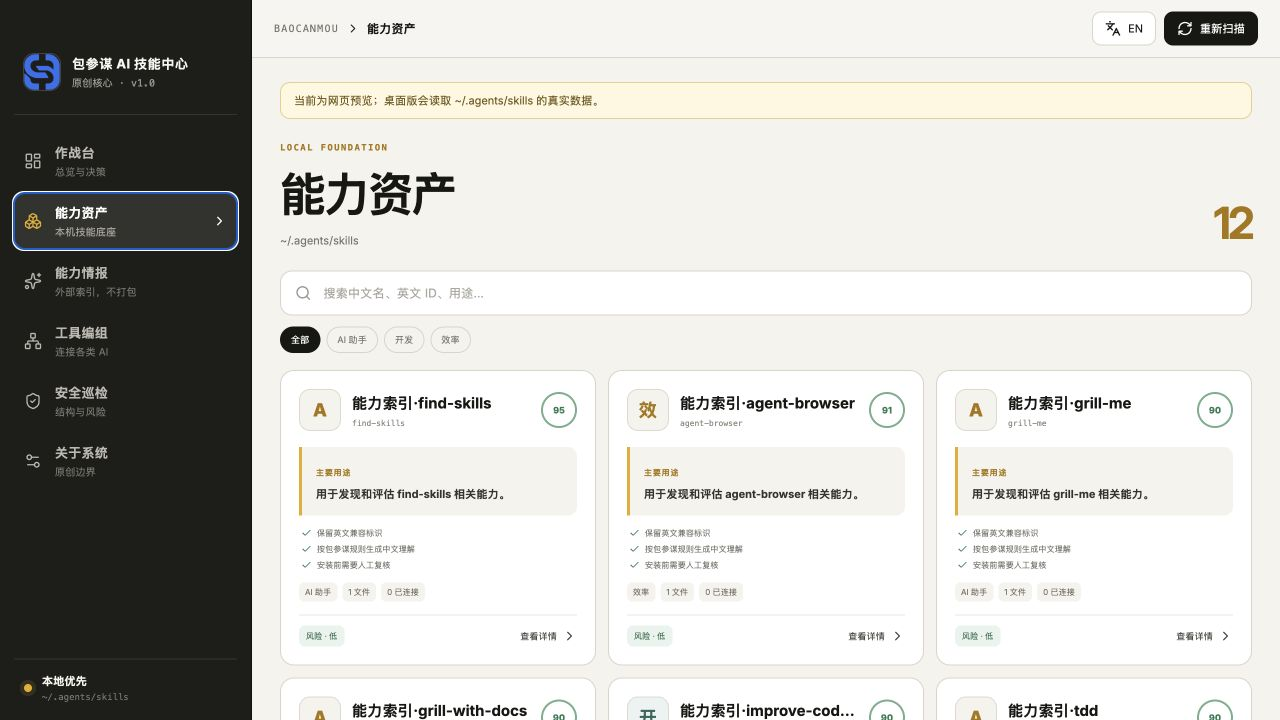
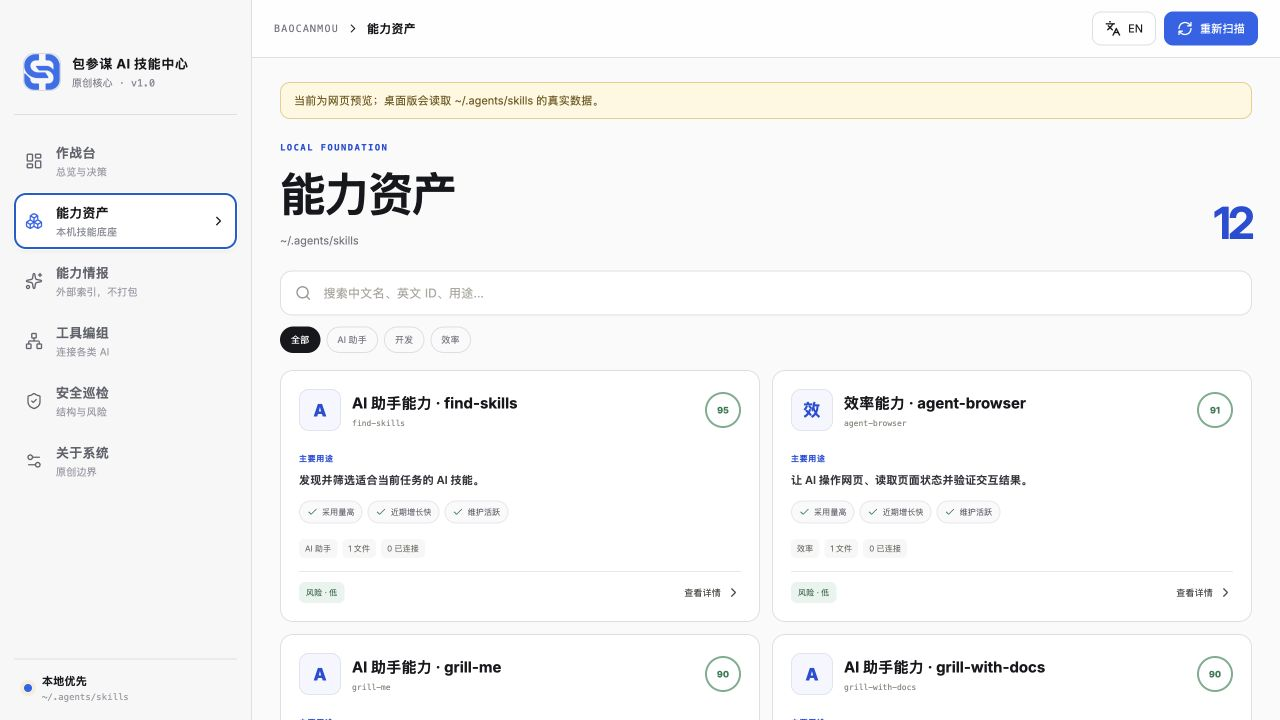
style: restore minimal UI with purpose-first cards

diff --git a/src/index.css b/src/index.css
@@ -1,22 +1,22 @@
 :root {
   font-family: Inter, "SF Pro Display", "PingFang SC", "Microsoft YaHei", sans-serif;
-  color: #171714;
-  background: #e8e5de;
+  color: #17181b;
+  background: #f4f5f7;
   font-synthesis: none;
   text-rendering: optimizeLegibility;
-  --paper: #f5f3ed;
-  --paper-2: #ece9e1;
-  --ink: #171714;
-  --muted: #78766f;
-  --line: #d9d5cb;
-  --accent: #e5ad12;
-  --accent-deep: #a87600;
+  --paper: #f7f7f8;
+  --paper-2: #f0f1f3;
+  --ink: #17181b;
+  --muted: #74777f;
+  --line: #dedfe3;
+  --accent: #2563eb;
+  --accent-deep: #1d4ed8;
   --good: #287a52;
   --warn: #ad6c12;
   --danger: #a43e36;
-  --sidebar: #1d1d1a;
-  --sidebar-muted: #9b9a92;
-  --radius: 16px;
+  --sidebar: #f7f7f8;
+  --sidebar-muted: #858891;
+  --radius: 14px;
   color-scheme: light;
 }
 
@@ -40,14 +40,14 @@ button { color: inherit; }
   display: flex;
   flex-direction: column;
   padding: 46px 14px 18px;
-  color: #f8f6ef;
+  color: var(--ink);
   background: var(--sidebar);
-  border-right: 1px solid #0f0f0e;
+  border-right: 1px solid var(--line);
 }
 
 .window-drag { position: absolute; inset: 0 0 auto; height: 38px; }
-.brand-lockup { display: flex; align-items: center; gap: 12px; padding: 8px 10px 24px; border-bottom: 1px solid #35352f; }
-.brand-lockup img { width: 36px; height: 36px; border-radius: 10px; box-shadow: 0 0 0 1px #44443d; }
+.brand-lockup { display: flex; align-items: center; gap: 12px; padding: 8px 10px 24px; border-bottom: 1px solid var(--line); }
+.brand-lockup img { width: 36px; height: 36px; border-radius: 10px; box-shadow: 0 0 0 1px #d7d9df; }
 .brand-lockup div { min-width: 0; display: grid; gap: 3px; }
 .brand-lockup strong { font-size: 13px; letter-spacing: .03em; white-space: nowrap; }
 .brand-lockup span { color: var(--sidebar-muted); font-family: ui-monospace, SFMono-Regular, Menlo, monospace; font-size: 10px; }
@@ -55,36 +55,36 @@ button { color: inherit; }
 .primary-nav { display: grid; gap: 4px; padding: 18px 0; }
 .primary-nav button {
   width: 100%; min-height: 56px; display: grid; grid-template-columns: 22px minmax(0, 1fr) 15px; align-items: center; gap: 9px;
-  padding: 8px 10px; border: 0; border-radius: 11px; color: #bbb9b1; background: transparent; text-align: left; cursor: pointer;
+  padding: 8px 10px; border: 1px solid transparent; border-radius: 11px; color: #60636b; background: transparent; text-align: left; cursor: pointer;
   transition: background .18s ease, color .18s ease;
 }
-.primary-nav button:hover { color: #fff; background: #292925; }
-.primary-nav button.active { color: #fff; background: #32322d; }
+.primary-nav button:hover { color: var(--ink); background: #fff; }
+.primary-nav button.active { color: var(--ink); border-color: var(--line); background: #fff; box-shadow: 0 2px 5px #1f29370d; }
 .primary-nav button.active > svg:first-child { color: var(--accent); }
 .primary-nav button > span { display: grid; min-width: 0; gap: 3px; }
 .primary-nav strong { font-size: 13px; font-weight: 650; }
-.primary-nav small { overflow: hidden; color: #77766f; font-size: 10px; text-overflow: ellipsis; white-space: nowrap; }
-.primary-nav button.active small { color: #a8a69d; }
+.primary-nav small { overflow: hidden; color: #9a9ca3; font-size: 10px; text-overflow: ellipsis; white-space: nowrap; }
+.primary-nav button.active small { color: #858891; }
 .primary-nav button > svg:last-child { opacity: 0; transform: translateX(-3px); transition: .18s ease; }
 .primary-nav button.active > svg:last-child { opacity: 1; transform: none; }
 
-.sidebar-foot { margin-top: auto; display: flex; align-items: center; gap: 10px; padding: 14px 10px 0; border-top: 1px solid #35352f; }
+.sidebar-foot { margin-top: auto; display: flex; align-items: center; gap: 10px; padding: 14px 10px 0; border-top: 1px solid var(--line); }
 .sidebar-foot .status-dot { width: 8px; height: 8px; border-radius: 99px; background: var(--accent); box-shadow: 0 0 0 4px #e5ad1220; }
 .sidebar-foot div { min-width: 0; display: grid; gap: 3px; }
 .sidebar-foot strong { font-size: 11px; }
-.sidebar-foot small { overflow: hidden; color: #77766f; font-family: ui-monospace, SFMono-Regular, Menlo, monospace; font-size: 9px; text-overflow: ellipsis; white-space: nowrap; }
+.sidebar-foot small { overflow: hidden; color: #9a9ca3; font-family: ui-monospace, SFMono-Regular, Menlo, monospace; font-size: 9px; text-overflow: ellipsis; white-space: nowrap; }
 
 .main-panel { min-width: 0; min-height: 0; display: grid; grid-template-rows: 58px minmax(0, 1fr); background: var(--paper); }
-.topbar { display: flex; align-items: center; justify-content: space-between; gap: 20px; padding: 12px 22px; border-bottom: 1px solid var(--line); background: #f7f5f0dd; backdrop-filter: blur(14px); }
+.topbar { display: flex; align-items: center; justify-content: space-between; gap: 20px; padding: 12px 22px; border-bottom: 1px solid var(--line); background: #ffffffeb; backdrop-filter: blur(14px); }
 .crumb { display: flex; align-items: center; gap: 7px; min-width: 0; }
 .crumb span { color: var(--muted); font-family: ui-monospace, SFMono-Regular, Menlo, monospace; font-size: 10px; letter-spacing: .12em; }
 .crumb strong { font-size: 12px; }
 .top-actions { display: flex; gap: 8px; }
 .top-actions button { display: inline-flex; align-items: center; gap: 7px; height: 34px; padding: 0 12px; border: 1px solid var(--line); border-radius: 9px; background: #fff; font-size: 11px; cursor: pointer; }
 .top-actions button:hover { border-color: #bdb8ac; }
-.top-actions .scan-button { color: #fff; border-color: var(--ink); background: var(--ink); }
+.top-actions .scan-button { color: #fff; border-color: var(--accent); background: var(--accent); }
 .top-actions button:disabled { cursor: wait; opacity: .6; }
-.content-scroll { overflow: auto; min-height: 0; padding: 24px 28px 52px; }
+.content-scroll { overflow: auto; min-height: 0; padding: 24px 28px 52px; background: #fafafa; }
 .page { width: min(1180px, 100%); margin: 0 auto; }
 
 .preview-banner, .error-banner { width: min(1180px, 100%); margin: 0 auto 16px; padding: 10px 13px; border: 1px solid #e5cf8d; border-radius: 10px; color: #725916; background: #fff8df; font-size: 11px; }
@@ -94,20 +94,20 @@ button { color: inherit; }
 @keyframes spin { to { transform: rotate(360deg); } }
 
 .eyebrow { color: var(--accent-deep); font-family: ui-monospace, SFMono-Regular, Menlo, monospace; font-size: 9px; font-weight: 750; letter-spacing: .15em; }
-.hero-panel { min-height: 262px; display: grid; grid-template-columns: minmax(0, 1.4fr) minmax(260px, .6fr); overflow: hidden; border: 1px solid #22221f; border-radius: 20px; color: #f7f5ef; background: #1d1d1a; }
-.hero-copy { align-self: center; padding: 38px 42px; }
-.hero-copy .eyebrow { color: #d5a925; }
-.hero-copy h1 { max-width: 620px; margin: 12px 0 13px; font-size: clamp(32px, 4vw, 56px); line-height: .98; letter-spacing: -.055em; }
-.hero-copy p { max-width: 560px; margin: 0; color: #aaa89f; font-size: 13px; line-height: 1.7; }
-.hero-copy button { display: inline-flex; align-items: center; gap: 8px; margin-top: 24px; padding: 10px 14px; border: 0; border-radius: 10px; color: #161612; background: var(--accent); font-size: 11px; font-weight: 700; cursor: pointer; }
-.hero-mark { position: relative; min-height: 262px; display: grid; place-content: center; justify-items: center; overflow: hidden; border-left: 1px solid #393934; background: #252521; }
-.hero-mark::before, .hero-mark::after { content: ""; position: absolute; inset: 18px; border: 1px solid #3c3c36; border-radius: 16px; }
-.hero-mark::after { inset: 50px; border-color: #44443d; border-radius: 50%; }
-.hero-mark span { position: relative; z-index: 2; color: var(--accent); font-size: 58px; font-weight: 760; letter-spacing: -.06em; }
-.hero-mark small { position: relative; z-index: 2; color: #89877f; font-size: 10px; letter-spacing: .08em; text-transform: uppercase; }
+.hero-panel { min-height: 208px; display: grid; grid-template-columns: minmax(0, 1.5fr) minmax(230px, .5fr); overflow: hidden; border: 1px solid var(--line); border-radius: 14px; color: var(--ink); background: #fff; }
+.hero-copy { align-self: center; padding: 30px 34px; }
+.hero-copy .eyebrow { color: var(--accent-deep); }
+.hero-copy h1 { max-width: 620px; margin: 10px 0 11px; font-size: clamp(28px, 3.5vw, 44px); line-height: 1.02; letter-spacing: -.05em; }
+.hero-copy p { max-width: 560px; margin: 0; color: var(--muted); font-size: 12px; line-height: 1.7; }
+.hero-copy button { display: inline-flex; align-items: center; gap: 8px; margin-top: 20px; padding: 9px 13px; border: 0; border-radius: 9px; color: #fff; background: var(--accent); font-size: 10px; font-weight: 700; cursor: pointer; }
+.hero-mark { position: relative; min-height: 208px; display: grid; place-content: center; justify-items: center; overflow: hidden; border-left: 1px solid var(--line); background: #fafbff; }
+.hero-mark::before, .hero-mark::after { content: ""; position: absolute; inset: 18px; border: 1px solid #e5e7eb; border-radius: 12px; }
+.hero-mark::after { inset: 47px; border-color: #dce4f6; border-radius: 50%; }
+.hero-mark span { position: relative; z-index: 2; color: var(--accent); font-size: 50px; font-weight: 760; letter-spacing: -.06em; }
+.hero-mark small { position: relative; z-index: 2; color: #8a8d95; font-size: 10px; letter-spacing: .08em; text-transform: uppercase; }
 .strategy-path { position: absolute; inset: 0; }
-.strategy-path::before { content: ""; position: absolute; left: 14%; top: 62%; width: 76%; height: 1px; background: #6b5c2c; transform: rotate(-23deg); }
-.strategy-path i { position: absolute; width: 7px; height: 7px; border-radius: 50%; background: var(--accent); box-shadow: 0 0 0 5px #e5ad121b; }
+.strategy-path::before { content: ""; position: absolute; left: 14%; top: 62%; width: 76%; height: 1px; background: #b8c8ed; transform: rotate(-23deg); }
+.strategy-path i { position: absolute; width: 7px; height: 7px; border-radius: 50%; background: var(--accent); box-shadow: 0 0 0 5px #2563eb12; }
 .strategy-path i:nth-child(1) { left: 15%; top: 72%; }.strategy-path i:nth-child(2) { left: 32%; top: 57%; }.strategy-path i:nth-child(3) { left: 51%; top: 61%; }.strategy-path i:nth-child(4) { left: 69%; top: 39%; }.strategy-path i:nth-child(5) { left: 84%; top: 29%; }
 
 .metric-row { display: grid; grid-template-columns: repeat(6, minmax(0, 1fr)); gap: 1px; margin: 15px 0; overflow: hidden; border: 1px solid var(--line); border-radius: 15px; background: var(--line); }
@@ -160,18 +160,18 @@ button { color: inherit; }
 .category-tabs::-webkit-scrollbar { display: none; }
 .category-tabs button { flex: 0 0 auto; padding: 6px 10px; border: 1px solid var(--line); border-radius: 999px; color: var(--muted); background: transparent; font-size: 9px; cursor: pointer; }
 .category-tabs button.active { color: #fff; border-color: var(--ink); background: var(--ink); }
-.asset-grid { display: grid; grid-template-columns: repeat(3, minmax(0, 1fr)); gap: 12px; }
-.skill-card { min-width: 0; display: flex; flex-direction: column; min-height: 286px; padding: 18px; border: 1px solid var(--line); border-radius: 14px; background: #fff; cursor: pointer; transition: transform .18s ease, border-color .18s ease, box-shadow .18s ease; }
-.skill-card:hover { transform: translateY(-2px); border-color: #bdb8ac; box-shadow: 0 12px 28px #27251e0d; }
+.asset-grid { display: grid; grid-template-columns: repeat(2, minmax(0, 1fr)); gap: 12px; }
+.skill-card { min-width: 0; display: flex; flex-direction: column; min-height: 252px; padding: 18px; border: 1px solid var(--line); border-radius: 13px; background: #fff; cursor: pointer; transition: border-color .16s ease, box-shadow .16s ease; }
+.skill-card:hover { border-color: #c6cbd5; box-shadow: 0 5px 14px #1f29370a; }
 .skill-card-heading { display: grid; grid-template-columns: 42px minmax(0, 1fr) auto; align-items: center; gap: 11px; }
-.skill-card-icon { width: 42px; height: 42px; display: grid; place-content: center; border: 1px solid #dedacf; border-radius: 11px; color: var(--accent-deep); background: var(--paper); font-size: 18px; font-weight: 800; }.skill-card-icon.category-design { color: #8a572c; background: #f6eee6; }.skill-card-icon.category-development { color: #2f665a; background: #eaf3f0; }.skill-card-icon.category-content { color: #785f22; background: #f7f1df; }.skill-card-icon.category-video { color: #6e4c78; background: #f3eaf5; }.skill-card-icon.category-data { color: #415f78; background: #eaf0f5; }.skill-card-icon.category-security { color: #8a4942; background: #f7eae8; }.skill-card-icon.category-automation { color: #5a6e38; background: #eef3e6; }
+.skill-card-icon { width: 42px; height: 42px; display: grid; place-content: center; border: 1px solid #dfe4ee; border-radius: 10px; color: var(--accent-deep); background: #f5f7ff; font-size: 17px; font-weight: 750; }
 .score-ring { width: 36px; height: 36px; display: grid; place-content: center; border: 2px solid; border-radius: 50%; font-size: 9px; font-weight: 800; }
 .score-ring.strong { color: var(--good); border-color: #74ad8e; }.score-ring.steady { color: var(--warn); border-color: #d2a65d; }.score-ring.attention { color: var(--danger); border-color: #cf827b; }
 .risk-pill { padding: 5px 7px; border-radius: 6px; font-size: 8px; }.risk-pill.low { color: #276946; background: #e8f3ec; }.risk-pill.medium { color: #865f10; background: #fff2d4; }.risk-pill.high { color: #8e3530; background: #fbe5e3; }
 .skill-card h3 { overflow: hidden; margin: 0 0 5px; font-size: 15px; text-overflow: ellipsis; white-space: nowrap; }
 .skill-card code { display: block; overflow: hidden; color: #8c8981; font-size: 8px; text-overflow: ellipsis; white-space: nowrap; }
-.skill-purpose { margin-top: 16px; padding: 13px 14px; border-left: 3px solid var(--accent); border-radius: 0 9px 9px 0; background: var(--paper); }.skill-purpose > span { color: var(--accent-deep); font-size: 8px; font-weight: 800; letter-spacing: .08em; }.skill-purpose p { display: -webkit-box; overflow: hidden; margin: 6px 0 0; color: #34332e; font-size: 11px; font-weight: 650; line-height: 1.55; -webkit-box-orient: vertical; -webkit-line-clamp: 2; }
-.skill-card-features { display: grid; gap: 5px; margin: 12px 2px; }.skill-card-features span { display: flex; align-items: center; gap: 5px; min-width: 0; overflow: hidden; color: var(--muted); font-size: 8px; text-overflow: ellipsis; white-space: nowrap; }.skill-card-features svg { flex: 0 0 auto; color: var(--good); }
+.skill-purpose { margin-top: 15px; }.skill-purpose > span { color: var(--accent-deep); font-size: 8px; font-weight: 750; letter-spacing: .06em; }.skill-purpose p { display: -webkit-box; overflow: hidden; margin: 6px 0 0; color: #35373d; font-size: 11px; font-weight: 550; line-height: 1.55; -webkit-box-orient: vertical; -webkit-line-clamp: 2; }
+.skill-card-features { display: flex; flex-wrap: wrap; gap: 5px; margin: 12px 0; }.skill-card-features span { max-width: 100%; display: flex; align-items: center; gap: 4px; overflow: hidden; padding: 5px 7px; border: 1px solid #e5e7eb; border-radius: 999px; color: #666a73; background: #fafafa; font-size: 8px; text-overflow: ellipsis; white-space: nowrap; }.skill-card-features svg { flex: 0 0 auto; color: var(--good); }
 .skill-meta { display: flex; flex-wrap: wrap; gap: 5px; margin: auto 0 0; }
 .skill-meta span { padding: 4px 6px; border-radius: 5px; color: #747169; background: var(--paper); font-size: 8px; }
 .skill-card-footer { display: flex; align-items: center; justify-content: space-between; gap: 10px; margin-top: 13px; padding-top: 10px; border-top: 1px solid #ebe8e0; }.skill-card-footer button { display: flex; align-items: center; gap: 5px; padding: 0; border: 0; color: #4d4b45; background: transparent; font-size: 9px; cursor: pointer; }

diff --git a/src/appLogic.ts b/src/appLogic.ts
@@ -45,6 +45,14 @@ export function catalogChineseName(skill: Pick<CatalogEntry, 'name' | 'category'
 }
 
 export function catalogPurpose(skill: Pick<CatalogEntry, 'name' | 'category'>, locale: Locale): string {
+  const name = skill.name.toLowerCase()
+  const specific = name.includes('find-skills')
+    ? ['发现并筛选适合当前任务的 AI 技能', 'Discover and shortlist AI Skills for the current task']
+    : name.includes('agent-browser') || name.includes('browser')
+      ? ['让 AI 操作网页、读取页面状态并验证交互结果', 'Operate webpages, read page state, and verify interactions']
+      : name.includes('grill')
+        ? ['通过追问澄清需求、暴露遗漏并形成可执行方案', 'Clarify requirements, expose gaps, and form an executable plan']
+        : null
   const purposes: Record<string, [string, string]> = {
     design: ['用于视觉、界面与设计质量相关任务', 'For visual, interface, and design-quality work'],
     development: ['用于代码开发、调试与工程交付', 'For coding, debugging, and engineering delivery'],
@@ -56,9 +64,13 @@ export function catalogPurpose(skill: Pick<CatalogEntry, 'name' | 'category'>, l
     'data-visualization': ['用于数据分析与可视化表达', 'For data analysis and visualization'],
     marketing: ['用于营销策略、转化与内容增长', 'For marketing strategy, conversion, and growth'],
     research: ['用于资料研究、分析与结论整理', 'For research, analysis, and synthesis'],
+    'ai-assistant': ['用于增强 AI 的规划、分析或任务执行能力', 'For stronger AI planning, analysis, or task execution'],
+    'browser-automation': ['用于网页操作、自动化与交互验收', 'For browser operations, automation, and interaction checks'],
+    productivity: ['用于减少重复操作并提高日常工作效率', 'For reducing repetitive work and improving productivity'],
+    devops: ['用于构建、部署、监测和工程运维', 'For build, deployment, monitoring, and operations'],
   }
-  const label = purposes[skill.category] ?? ['用于对应任务的结构化执行与检查', 'For structured task execution and review']
-  return `${skill.name}：${label[locale === 'zh' ? 0 : 1]}。`
+  const label = specific ?? purposes[skill.category] ?? ['用于对应任务的结构化执行与检查', 'For structured task execution and review']
+  return `${label[locale === 'zh' ? 0 : 1]}。`
 }
 
 export function formatCompactNumber(value: number, locale: Locale): string {

diff --git a/src/App.tsx b/src/App.tsx
@@ -61,14 +61,14 @@ function isDesktopRuntime(): boolean {
 function demoSnapshot(): CenterSnapshot {
   const skills = catalog.skills.slice(0, 12).map<SkillAsset>((item) => ({
     id: item.name,
-    nameZh: `能力索引·${item.name}`,
+    nameZh: catalogChineseName(item),
     nameEn: item.name,
-    summaryZh: '网页预览数据；桌面版会读取本机技能并生成中文理解。',
+    summaryZh: catalogPurpose(item, 'zh'),
     summaryEn: item.summary || 'Browser preview data.',
-    purposeZh: `用于发现和评估 ${item.name} 相关能力。`,
-    purposeEn: `Used to discover and assess ${item.name}-related capability.`,
-    featuresZh: ['保留英文兼容标识', '按包参谋规则生成中文理解', '安装前需要人工复核'],
-    featuresEn: ['Preserves compatible English ID', 'Uses BaoCanMou interpretation', 'Requires manual review before installation'],
+    purposeZh: catalogPurpose(item, 'zh'),
+    purposeEn: catalogPurpose(item, 'en'),
+    featuresZh: item.recommendation_reasons.slice(0, 3).map((reason) => recommendationReason(reason, 'zh')),
+    featuresEn: item.recommendation_reasons.slice(0, 3).map((reason) => recommendationReason(reason, 'en')),
     category: item.category,
     path: `~/.agents/skills/${item.name}`,
     score: Math.round(item.recommendation_score),
